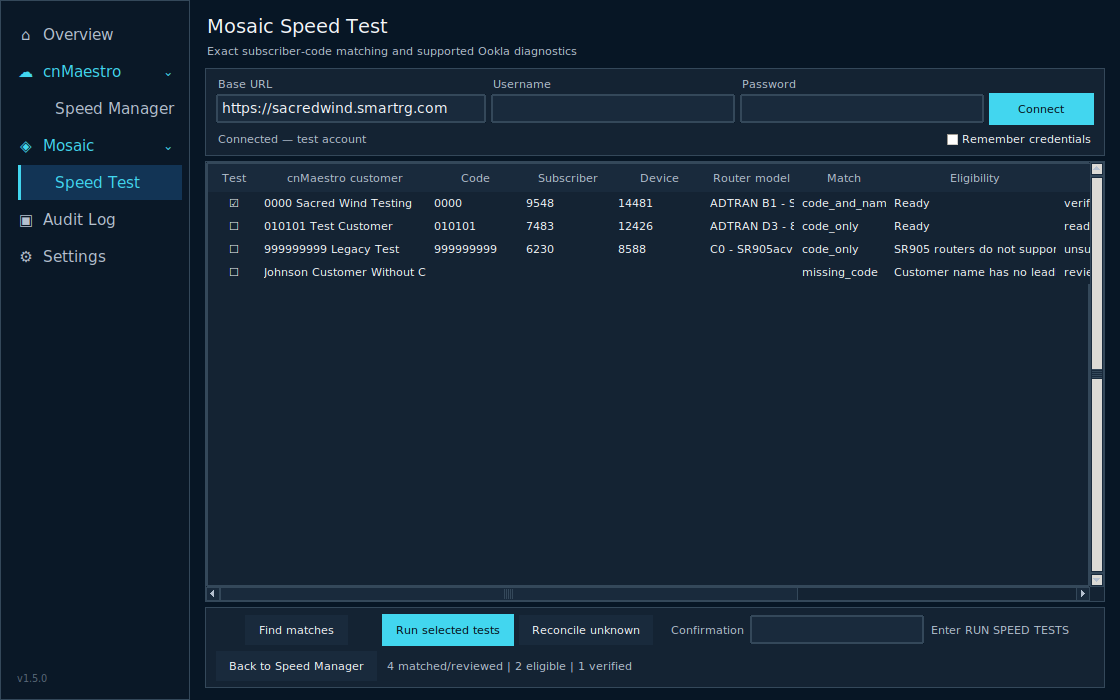
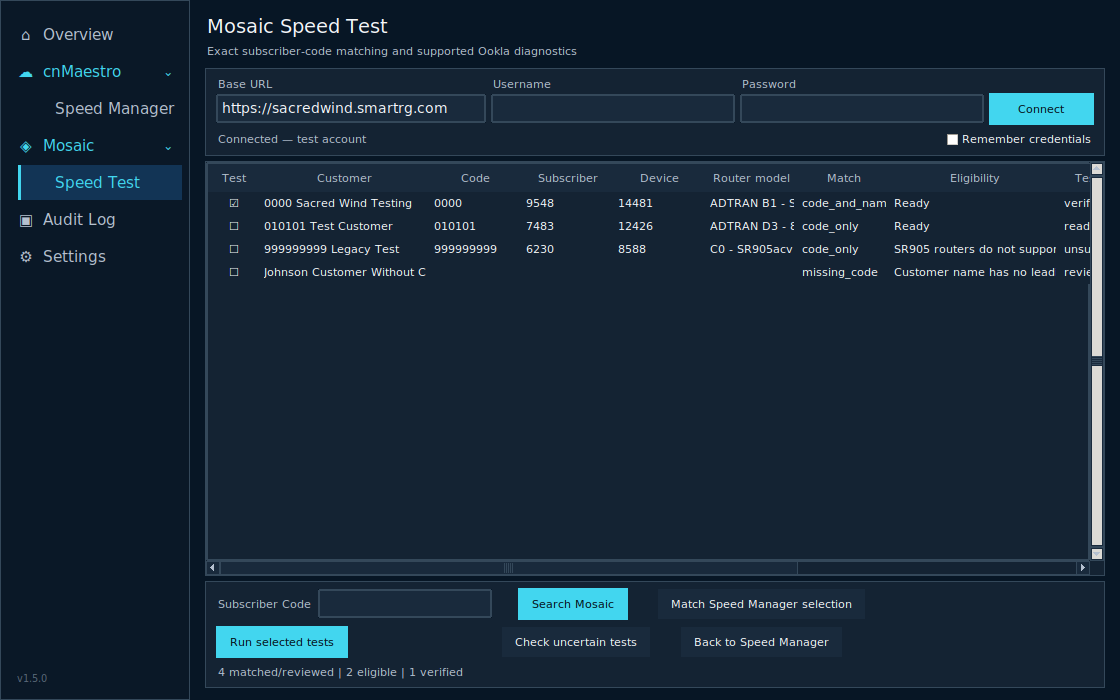
feat: add standalone Mosaic subscriber search
Allow exact Subscriber Code searches, expand multi-device matches for operator selection, clarify test status/recovery labels, and remove typed confirmation.

Changed region(s): [[0.1875, 0.78, 1.0, 0.99], [0.25, 0.24, 0.375, 0.27], [0.9688, 0.51, 1.0, 0.54]]

diff --git a/cnmaestro_speed_manager.py b/cnmaestro_speed_manager.py
@@ -172,7 +172,7 @@ class App(tk.Tk):
   self.pages={}
   for key in ('overview','speed_manager','mosaic_speed_test','audit','settings'):
    page=ttk.Frame(self.content,padding=(15,12));page.grid(row=0,column=0,sticky='nsew');self.pages[key]=page
-  self.auth=tk.StringVar(value='https://cloud.cambiumnetworks.com');self.cid=tk.StringVar();self.sec=tk.StringVar();self.remember_credentials=tk.BooleanVar(value=False);self.status=tk.StringVar(value='Disconnected');self.theme=tk.StringVar(value='Dark');self._loading_credentials=False;self.secret_client_id=None;self.loaded_secret_client_id=None;self.cid.trace_add('write',self.on_client_id_changed);self.sec.trace_add('write',self.on_client_secret_changed);self.mosaic_base_url=tk.StringVar(value=DEFAULT_MOSAIC_URL);self.mosaic_username=tk.StringVar();self.mosaic_password=tk.StringVar();self.mosaic_remember=tk.BooleanVar(value=False);self.mosaic_status=tk.StringVar(value='Disconnected');self.mosaic_confirmation=tk.StringVar()
+  self.auth=tk.StringVar(value='https://cloud.cambiumnetworks.com');self.cid=tk.StringVar();self.sec=tk.StringVar();self.remember_credentials=tk.BooleanVar(value=False);self.status=tk.StringVar(value='Disconnected');self.theme=tk.StringVar(value='Dark');self._loading_credentials=False;self.secret_client_id=None;self.loaded_secret_client_id=None;self.cid.trace_add('write',self.on_client_id_changed);self.sec.trace_add('write',self.on_client_secret_changed);self.mosaic_base_url=tk.StringVar(value=DEFAULT_MOSAIC_URL);self.mosaic_username=tk.StringVar();self.mosaic_password=tk.StringVar();self.mosaic_remember=tk.BooleanVar(value=False);self.mosaic_status=tk.StringVar(value='Disconnected');self.mosaic_search_code=tk.StringVar()
   self.build_speed_manager();self.build_mosaic_speed_test();self.build_overview();self.build_audit_page();self.build_settings();self.progtext.trace_add('write',self.on_publish_progress_changed)
  def add_nav_row(self,key,label,icon,parent=None,indent=0):
   c=self.colors;holder=parent or self.nav_container;row=tk.Frame(holder,bg=c['sidebar'],height=35,cursor='hand2');row.pack(fill='x',padx=(5+indent,7),pady=1);row.pack_propagate(False)
@@ -235,10 +235,10 @@ class App(tk.Tk):
  def build_mosaic_speed_test(self):
   p=self.pages['mosaic_speed_test'];p.columnconfigure(0,weight=1);p.rowconfigure(3,weight=1);ttk.Label(p,text='Mosaic Speed Test',style='PageTitle.TLabel').grid(row=0,column=0,sticky='w');ttk.Label(p,text='Exact subscriber-code matching and supported Ookla diagnostics',style='Muted.TLabel').grid(row=1,column=0,sticky='w',pady=(2,8))
   o,b=self.card(p,10,6);o.grid(row=2,column=0,sticky='ew',pady=(0,5));b.columnconfigure(0,weight=3);b.columnconfigure(1,weight=2);b.columnconfigure(2,weight=2);ttk.Label(b,text='Base URL',style='SurfaceMuted.TLabel').grid(row=0,column=0,sticky='w');ttk.Label(b,text='Username',style='SurfaceMuted.TLabel').grid(row=0,column=1,sticky='w');ttk.Label(b,text='Password',style='SurfaceMuted.TLabel').grid(row=0,column=2,sticky='w');ttk.Entry(b,textvariable=self.mosaic_base_url).grid(row=1,column=0,sticky='ew',padx=(0,5));ttk.Entry(b,textvariable=self.mosaic_username).grid(row=1,column=1,sticky='ew',padx=(0,5));self.mosaic_password_entry=ttk.Entry(b,textvariable=self.mosaic_password,show='*');self.mosaic_password_entry.grid(row=1,column=2,sticky='ew',padx=(0,5));ttk.Button(b,text='Connect',style='Accent.TButton',command=self.connect_mosaic).grid(row=1,column=3);ttk.Checkbutton(b,text='Remember credentials',variable=self.mosaic_remember).grid(row=2,column=2,columnspan=2,sticky='e',pady=(4,0));ttk.Label(b,textvariable=self.mosaic_status,style='SurfaceMuted.TLabel').grid(row=2,column=0,columnspan=2,sticky='w',pady=(4,0))
-  o,t=self.card(p,0,0);o.grid(row=3,column=0,sticky='nsew',pady=(0,5));t.columnconfigure(0,weight=1);t.rowconfigure(0,weight=1);cols=('select','customer','code','subscriber','device','model','match','eligibility','state','download','upload','latency','jitter');heads=('Test','cnMaestro customer','Code','Subscriber','Device','Router model','Match','Eligibility','State','Download','Upload','Latency','Jitter');self.mosaic_tree=ttk.Treeview(t,columns=cols,show='headings',selectmode='none',height=10)
+  o,t=self.card(p,0,0);o.grid(row=3,column=0,sticky='nsew',pady=(0,5));t.columnconfigure(0,weight=1);t.rowconfigure(0,weight=1);cols=('select','customer','code','subscriber','device','model','match','eligibility','state','download','upload','latency','jitter');heads=('Test','Customer','Code','Subscriber','Device','Router model','Match','Eligibility','Test status','Download','Upload','Latency','Jitter');self.mosaic_tree=ttk.Treeview(t,columns=cols,show='headings',selectmode='none',height=10)
   for col,head in zip(cols,heads):self.mosaic_tree.heading(col,text=head);self.mosaic_tree.column(col,width=52 if col=='select' else (170 if col in ('customer','eligibility') else 92),stretch=False,anchor='center' if col=='select' else 'w')
   self.mosaic_tree.bind('<Button-1>',self.mosaic_tree_click);y=ttk.Scrollbar(t,orient='vertical',command=self.mosaic_tree.yview);x=ttk.Scrollbar(t,orient='horizontal',command=self.mosaic_tree.xview);self.mosaic_tree.configure(yscrollcommand=y.set,xscrollcommand=x.set);self.mosaic_tree.grid(row=0,column=0,sticky='nsew');y.grid(row=0,column=1,sticky='ns');x.grid(row=1,column=0,sticky='ew')
-  o,a=self.card(p,10,6);o.grid(row=4,column=0,sticky='ew');self.mosaic_find_button=ttk.Button(a,text='Find matches',command=self.find_mosaic_matches);self.mosaic_find_button.grid(row=0,column=0);self.mosaic_run_button=ttk.Button(a,text='Run selected tests',style='Accent.TButton',command=self.run_selected_mosaic_tests);self.mosaic_run_button.grid(row=0,column=1,padx=5);self.mosaic_reconcile_button=ttk.Button(a,text='Reconcile unknown',command=self.reconcile_mosaic_unknown);self.mosaic_reconcile_button.grid(row=0,column=2);ttk.Label(a,text='Confirmation',style='SurfaceMuted.TLabel').grid(row=0,column=3,padx=(16,4));ttk.Entry(a,textvariable=self.mosaic_confirmation,width=18).grid(row=0,column=4);ttk.Label(a,text='Enter RUN SPEED TESTS',style='SurfaceMuted.TLabel').grid(row=0,column=5,padx=5);self.mosaic_back_button=ttk.Button(a,text='Back to Speed Manager',command=lambda:self.show_page('speed_manager'));self.mosaic_back_button.grid(row=1,column=0,pady=(5,0),sticky='w');self.mosaic_action_status=tk.StringVar(value='No speed-test operation active.');ttk.Label(a,textvariable=self.mosaic_action_status,style='SurfaceMuted.TLabel').grid(row=1,column=1,columnspan=6,sticky='w',padx=(8,0),pady=(5,0))
+  o,a=self.card(p,10,6);o.grid(row=4,column=0,sticky='ew');ttk.Label(a,text='Subscriber Code',style='SurfaceMuted.TLabel').grid(row=0,column=0,sticky='w');self.mosaic_search_entry=ttk.Entry(a,textvariable=self.mosaic_search_code,width=18);self.mosaic_search_entry.grid(row=0,column=1,padx=(5,5));self.mosaic_search_button=ttk.Button(a,text='Search Mosaic',style='Accent.TButton',command=self.search_mosaic_subscriber);self.mosaic_search_button.grid(row=0,column=2);self.mosaic_find_button=ttk.Button(a,text='Match Speed Manager selection',command=self.find_mosaic_matches);self.mosaic_find_button.grid(row=0,column=3,padx=(8,0));self.mosaic_run_button=ttk.Button(a,text='Run selected tests',style='Accent.TButton',command=self.run_selected_mosaic_tests);self.mosaic_run_button.grid(row=1,column=0,columnspan=2,pady=(6,0),sticky='w');self.mosaic_reconcile_button=ttk.Button(a,text='Check uncertain tests',command=self.reconcile_mosaic_unknown);self.mosaic_reconcile_button.grid(row=1,column=2,padx=(5,0),pady=(6,0));self.mosaic_back_button=ttk.Button(a,text='Back to Speed Manager',command=lambda:self.show_page('speed_manager'));self.mosaic_back_button.grid(row=1,column=3,padx=(8,0),pady=(6,0));self.mosaic_action_status=tk.StringVar(value='No speed-test operation active.');ttk.Label(a,textvariable=self.mosaic_action_status,style='SurfaceMuted.TLabel').grid(row=2,column=0,columnspan=4,sticky='w',pady=(5,0))
  def on_publish_progress_changed(self,*_):
   text=self.progtext.get()
   if not text.startswith('Completed |') or text==self._publish_handoff_signature:return
@@ -260,6 +260,24 @@ class App(tk.Tk):
  def mosaic_source_customers(self):
   if self.pending_speedtest_customers:return list(self.pending_speedtest_customers)
   return [self.rows[m] for m in sorted(self.checked) if m in self.rows]
+ async def mosaic_candidates_for_records(self,customer,index,records):
+  match=match_subscriber(customer.get('name',''),records)
+  if match.status=='multiple_devices':
+   unique={str(record.get('fields',{}).get('deviceId') or ''):record for record in match.records if record.get('fields',{}).get('deviceId')}
+   found=[]
+   for offset,(device_id,record) in enumerate(sorted(unique.items())):
+    single=match_subscriber(customer.get('name',''),[record]);bundle=await self.mosaic_api.read_device(device_id);elig=evaluate_eligibility(record,bundle['support'],bundle['application_status'],bundle['actions']);candidate=self.mosaic_candidate(customer,index*100+offset,single,elig);candidate['match']='multiple_devices';candidate['eligibility']='Review device choice — '+elig.reason;found.append(candidate)
+   return found
+  if match.status!='matched':return [self.mosaic_candidate(customer,index,match,None)]
+  device_id=str(match.record.get('fields',{}).get('deviceId'));bundle=await self.mosaic_api.read_device(device_id);elig=evaluate_eligibility(match.record,bundle['support'],bundle['application_status'],bundle['actions']);return [self.mosaic_candidate(customer,index,match,elig)]
+ def search_mosaic_subscriber(self):
+  if not self.mosaic_api:return messagebox.showerror('Mosaic','Connect to Mosaic first')
+  code=self.mosaic_search_code.get().strip()
+  if not re.fullmatch(r'\d{4,12}',code):return messagebox.showerror('Mosaic','Enter a 4–12 digit Subscriber Code.')
+  self.mosaic_action_status.set(f'Searching Mosaic for {code}...')
+  async def work():
+   records=await self.mosaic_api.search_subscriber(code);exact=[record for record in records if str(record.get('fields',{}).get('subscriberCode') or '')==code];name=exact[0].get('fields',{}).get('fullName') if exact else 'Mosaic subscriber';return await self.mosaic_candidates_for_records({'name':f'{code} {name or "Mosaic subscriber"}'},0,records)
+  self.bg(work(),self.finish_mosaic_matches)
  def find_mosaic_matches(self):
   if not self.mosaic_api:return messagebox.showerror('Mosaic','Connect to Mosaic first')
   customers=self.mosaic_source_customers()
@@ -270,9 +288,7 @@ class App(tk.Tk):
    for index,customer in enumerate(customers):
     identity=parse_customer_identity(customer.get('name',''))
     if not identity:found.append(self.mosaic_candidate(customer,index,None,None));continue
-    records=await self.mosaic_api.search_subscriber(identity.subscriber_code);match=match_subscriber(customer.get('name',''),records)
-    if match.status!='matched':found.append(self.mosaic_candidate(customer,index,match,None));continue
-    bundle=await self.mosaic_api.read_device(str(match.record.get('fields',{}).get('deviceId')));elig=evaluate_eligibility(match.record,bundle['support'],bundle['application_status'],bundle['actions']);found.append(self.mosaic_candidate(customer,index,match,elig))
+    records=await self.mosaic_api.search_subscriber(identity.subscriber_code);found.extend(await self.mosaic_candidates_for_records(customer,index,records))
    return found
   self.bg(work(),self.finish_mosaic_matches)
  def mosaic_candidate(self,customer,index,match,eligibility):
@@ -298,7 +314,6 @@ class App(tk.Tk):
  def run_selected_mosaic_tests(self):
   if self.mosaic_running:return
   if not self.mosaic_api:return messagebox.showerror('Mosaic','Connect to Mosaic first')
-  if self.mosaic_confirmation.get()!='RUN SPEED TESTS':return messagebox.showerror('Blocked','Enter: RUN SPEED TESTS')
   selected=[c for c in self.mosaic_candidates if c['key'] in self.mosaic_checked and c.get('eligible')]
   if not selected:return messagebox.showinfo('Mosaic','Select at least one eligible router.')
   self.mosaic_running=True;self.mosaic_run_button.configure(state='disabled');self.mosaic_action_status.set(f'Running 1 of {len(selected)}...')

diff --git a/tests/test_mosaic_ui.py b/tests/test_mosaic_ui.py
@@ -1,3 +1,4 @@
+import asyncio
 import json
 import os
 import tempfile
@@ -73,9 +74,49 @@ class MosaicUiTests(unittest.TestCase):
 
 
 
+
+    def test_independent_subscriber_code_search_builds_candidate(self):
+        class FakeApi:
+            async def search_subscriber(self, code):
+                return [{"fields": {"subscriberCode": code, "subscriberId": "1", "deviceId": "2", "model": "ADTRAN", "fullName": "Test Customer", "disposition": "MANAGED_DEVICE", "lastInform": "2099-01-01T00:00:00+00:00"}}]
+            async def read_device(self, device_id):
+                return {"support": {"applications": {"OoklaSpeedTest": {"supported": True, "driver": {"ref": "driver"}}}}, "application_status": {"applications": {"OoklaSpeedTest": {"state": "OK"}}}, "actions": {"applications": {"OoklaSpeedTest": {"pendingSync": False}}}, "data": {}}
+        self.app.mosaic_api = FakeApi()
+        self.app.mosaic_search_code.set("10014")
+        def immediate(coroutine, callback):
+            try: callback(asyncio.run(coroutine), None)
+            except Exception as exc: callback(None, exc)
+        with mock.patch.object(self.app, "bg", side_effect=immediate):
+            self.app.search_mosaic_subscriber()
+        self.assertEqual(len(self.app.mosaic_candidates), 1)
+        self.assertEqual(self.app.mosaic_candidates[0]["subscriber_code"], "10014")
+        self.assertEqual(self.app.mosaic_candidates[0]["device_id"], "2")
+
+    def test_multiple_devices_expand_into_reviewable_device_rows(self):
+        class FakeApi:
+            async def read_device(self, device_id):
+                return {"support": {"applications": {"OoklaSpeedTest": {"supported": True, "driver": {"ref": "driver"}}}}, "application_status": {"applications": {"OoklaSpeedTest": {"state": "OK"}}}, "actions": {"applications": {"OoklaSpeedTest": {"pendingSync": False}}}, "data": {}}
+        self.app.mosaic_api = FakeApi()
+        records = [
+            {"fields": {"subscriberCode": "10014", "subscriberId": "1", "deviceId": "2", "model": "Router A", "fullName": "Test", "disposition": "MANAGED_DEVICE", "lastInform": "2099-01-01T00:00:00+00:00"}},
+            {"fields": {"subscriberCode": "10014", "subscriberId": "1", "deviceId": "3", "model": "Router B", "fullName": "Test", "disposition": "MANAGED_DEVICE", "lastInform": "2099-01-01T00:00:00+00:00"}},
+        ]
+        rows = asyncio.run(self.app.mosaic_candidates_for_records({"name": "10014 Test"}, 0, records))
+        self.assertEqual({row["device_id"] for row in rows}, {"2", "3"})
+        self.assertTrue(all(row["match"] == "multiple_devices" for row in rows))
+        self.assertTrue(all(row["eligible"] for row in rows))
+
+    def test_speed_test_controls_use_clear_labels_without_confirmation_box(self):
+        self.assertTrue(hasattr(self.app, "mosaic_search_entry"))
+        self.assertEqual(self.app.mosaic_search_button.cget("text"), "Search Mosaic")
+        self.assertEqual(self.app.mosaic_reconcile_button.cget("text"), "Check uncertain tests")
+        self.assertEqual(self.app.mosaic_tree.heading("state")["text"], "Test status")
+        self.assertFalse(hasattr(self.app, "mosaic_confirmation"))
+        import inspect
+        self.assertNotIn("RUN SPEED TESTS", inspect.getsource(toolkit.App.run_selected_mosaic_tests))
+
     def test_repeated_run_clicks_start_only_one_worker(self):
         self.app.mosaic_api = object()
-        self.app.mosaic_confirmation.set("RUN SPEED TESTS")
         self.app.mosaic_candidates = [{"key": "2", "device_id": "2", "subscriber_code": "10014", "model": "SDG", "eligible": True, "record": {"fields": {}}}]
         self.app.mosaic_checked = {"2"}
         def hold(coroutine, callback): coroutine.close()

diff --git a/mosaic_service.py b/mosaic_service.py
@@ -440,13 +440,15 @@ async def execute_journaled_ookla(client: MosaicPortalClient, journal: MosaicJou
     """Run one Ookla action with fresh capability checks and durable outcome states."""
     try:
         records = await client.search_subscriber(subscriber_code)
-        current_match = match_subscriber(f"{subscriber_code} {record.get('fields', {}).get('fullName', '')}", records)
-        if current_match.status != "matched":
-            return {"entry_id": None, "state": "ineligible", "detail": current_match.reason}
-        current_record = current_match.record
-        current_device = str(current_record.get("fields", {}).get("deviceId") or "")
-        if current_device != str(device_id):
-            return {"entry_id": None, "state": "ineligible", "detail": "Mosaic device changed after matching"}
+        exact = {
+            (str(item.get("fields", {}).get("subscriberId") or ""), str(item.get("fields", {}).get("deviceId") or "")): item
+            for item in records
+            if str(item.get("fields", {}).get("subscriberCode") or "") == str(subscriber_code)
+        }
+        chosen = [item for (_, candidate_device), item in exact.items() if candidate_device == str(device_id)]
+        if len(chosen) != 1:
+            return {"entry_id": None, "state": "ineligible", "detail": "Selected Mosaic device is no longer an exact subscriber match"}
+        current_record = chosen[0]
         bundle = await client.read_device(device_id)
         eligibility = evaluate_eligibility(
             current_record,

diff --git a/tests/test_mosaic_service.py b/tests/test_mosaic_service.py
@@ -190,6 +190,23 @@ class JournaledExecutionTests(unittest.IsolatedAsyncioTestCase):
             return {"start_timestamp": "200", "download_mbps": 50.0, "upload_mbps": 10.0, "latency_ms": 12.0, "jitter_ms": 3.0}
 
 
+
+    async def test_explicit_device_choice_allows_multi_device_subscriber(self):
+        class MultiDevice(self.FakeClient):
+            async def search_subscriber(self, code):
+                now = datetime.now(timezone.utc).isoformat()
+                return [
+                    {"fields": {"subscriberCode": str(code), "deviceId": "2", "subscriberId": "1", "model": "Chosen", "disposition": "MANAGED_DEVICE", "lastInform": now, "fullName": "Test"}},
+                    {"fields": {"subscriberCode": str(code), "deviceId": "3", "subscriberId": "1", "model": "Other", "disposition": "MANAGED_DEVICE", "lastInform": now, "fullName": "Test"}},
+                ]
+        with tempfile.TemporaryDirectory() as directory:
+            journal = MosaicJournal(Path(directory) / "mosaic.db")
+            client = MultiDevice()
+            record = self.managed_record()
+            outcome = await execute_journaled_ookla(client, journal, "10014", "2", "Chosen", record=record)
+            self.assertEqual(outcome["state"], "verified")
+            self.assertEqual(client.puts, 1)
+
     async def test_capability_is_rechecked_immediately_before_submission(self):
         class BecameUnsupported(self.FakeClient):
             async def read_device(self, device_id):
